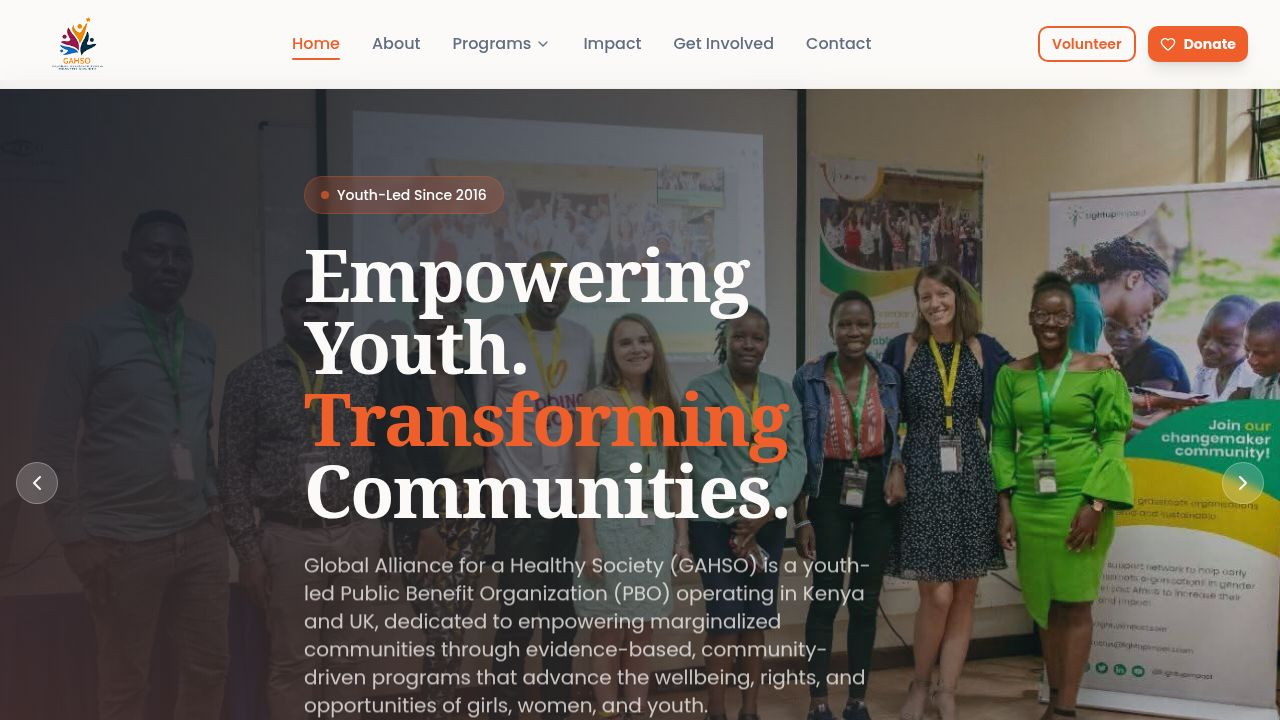
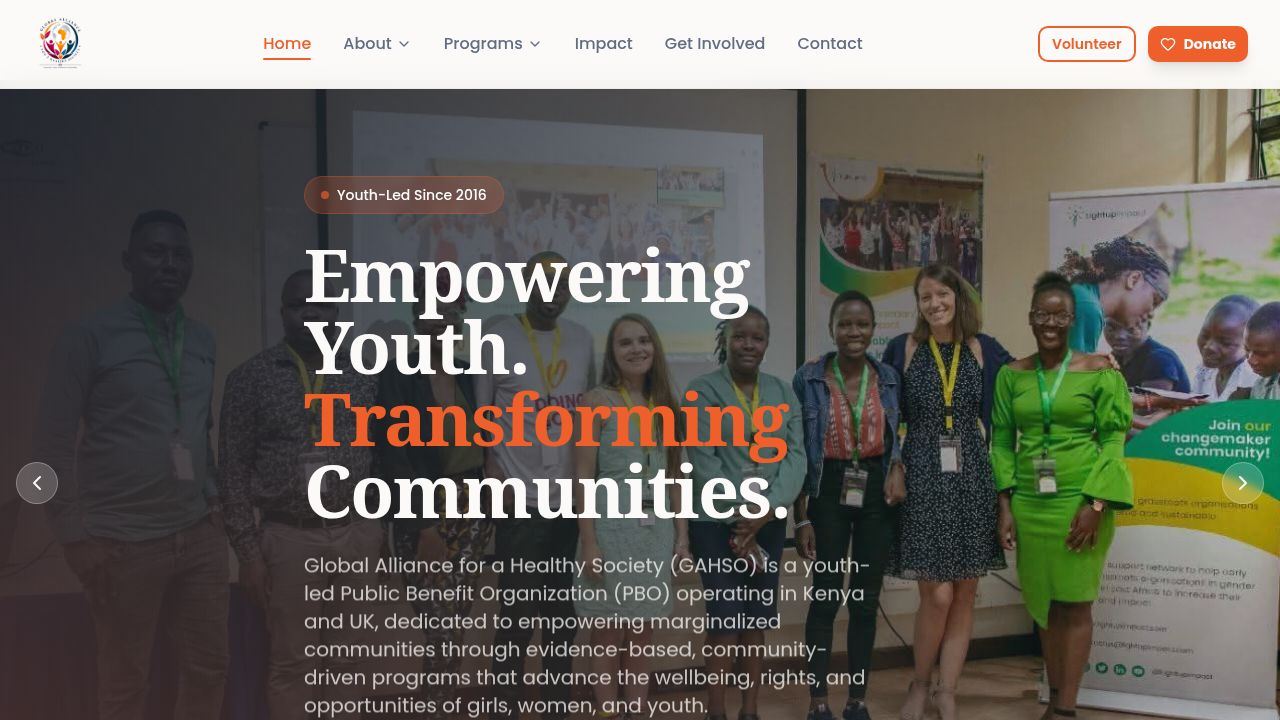
Update the Our History page with founder and co-founder details
Update the OurHistory.tsx component to include sections for the founder and co-founder, incorporating their respective images and biographical information.

Replit-Commit-Author: Agent
Replit-Commit-Session-Id: 1c38b4c8-f28b-43aa-a553-3a7df3d14071
Replit-Commit-Checkpoint-Type: full_checkpoint
Replit-Commit-Event-Id: e6fb6d12-f500-427d-9632-dfcee1dbf2d3
Replit-Commit-Screenshot-Url: https://storage.googleapis.com/screenshot-production-us-central1/33d70b60-9898-4bfa-ac70-67d3e3cc681f/1c38b4c8-f28b-43aa-a553-3a7df3d14071/3xb5e1A
Replit-Helium-Checkpoint-Created: true

diff --git a/artifacts/gahso/src/pages/OurHistory.tsx b/artifacts/gahso/src/pages/OurHistory.tsx
@@ -1,11 +1,14 @@
 import { Navbar } from "@/components/layout/Navbar";
 import { Footer } from "@/components/layout/Footer";
+import founderImg from "@/assets/founder-dafine-auma.png";
+import coFounderImg from "@/assets/cofounder-peter-gregory.jpeg";
 
 const OurHistory = () => {
   return (
     <div className="min-h-screen flex flex-col">
       <Navbar />
       <main className="flex-1 pt-24">
+
         {/* Hero */}
         <section className="bg-gradient-to-br from-primary/10 via-background to-secondary/10 py-20">
           <div className="container-wide section-padding text-center">
@@ -16,96 +19,151 @@ const OurHistory = () => {
               Our History
             </h1>
             <p className="text-lg text-muted-foreground max-w-2xl mx-auto">
-              From a small group of passionate youth in Kenya to a registered Public Benefit
+              From a bold idea rooted in community need to a registered Public Benefit
               Organization operating across Kenya and the UK — this is the story of GAHSO.
             </p>
           </div>
         </section>
 
-        {/* Timeline */}
+        {/* Founder */}
         <section className="py-20 bg-background">
           <div className="container-wide section-padding">
-            <div className="max-w-3xl mx-auto">
-              <div className="relative">
-                {/* Vertical line */}
-                <div className="absolute left-6 top-0 bottom-0 w-0.5 bg-primary/20" />
-
-                <div className="space-y-12">
-                  {[
-                    {
-                      year: "2016",
-                      title: "Founded",
-                      description:
-                        "GAHSO was founded by a group of youth activists in Nairobi, Kenya, united by a shared vision of empowering marginalized communities through evidence-based, community-driven programs.",
-                    },
-                    {
-                      year: "2018",
-                      title: "First Programs Launched",
-                      description:
-                        "We launched our first community health and youth leadership programs in informal settlements across Nairobi, reaching hundreds of young people and women with life-skills training and health education.",
-                    },
-                    {
-                      year: "2020",
-                      title: "TaTua Initiative Established",
-                      description:
-                        "The TaTua Initiative was born — a flagship livelihood program encompassing TaTua Farms, TaTua Salon, and MloFlow, creating dignified economic opportunities for marginalized youth and women.",
-                    },
-                    {
-                      year: "2021",
-                      title: "Registered as a PBO",
-                      description:
-                        "GAHSO was formally registered as a Public Benefit Organization (PBO) in Kenya, marking a new chapter of accountability, transparency, and institutional credibility.",
-                    },
-                    {
-                      year: "2022",
-                      title: "UK Expansion",
-                      description:
-                        "GAHSO expanded its footprint to the United Kingdom, establishing a presence to build international partnerships and amplify the voice of marginalized communities on the global stage.",
-                    },
-                    {
-                      year: "2023",
-                      title: "InnovHubs & Digital Inclusion",
-                      description:
-                        "We launched InnovHubs — a community innovation hub — and the Digital Inclusion (CUDI-GW) program, bridging the digital divide for youth and women in underserved communities.",
-                    },
-                    {
-                      year: "Today",
-                      title: "Growing Impact",
-                      description:
-                        "GAHSO continues to grow its programs, partnerships, and reach — staying true to its founding values of Compassion, Equity, Collaboration, and Sustainability.",
-                    },
-                  ].map((item) => (
-                    <div key={item.year} className="relative flex gap-8 pl-16">
-                      {/* Dot */}
-                      <div className="absolute left-4 top-1 w-4 h-4 rounded-full bg-primary border-2 border-background shadow-md -translate-x-1/2" />
-                      <div>
-                        <span className="inline-block px-3 py-0.5 rounded-full bg-primary/10 text-primary text-sm font-semibold mb-2">
-                          {item.year}
-                        </span>
-                        <h3 className="text-xl font-bold text-foreground mb-2">
-                          {item.title}
-                        </h3>
-                        <p className="text-muted-foreground leading-relaxed">
-                          {item.description}
-                        </p>
-                      </div>
-                    </div>
-                  ))}
+            <div className="grid md:grid-cols-2 gap-12 items-center max-w-5xl mx-auto">
+              {/* Image */}
+              <div className="flex justify-center">
+                <div className="relative">
+                  <div className="absolute -inset-3 rounded-3xl bg-primary/10" />
+                  <img
+                    src={founderImg}
+                    alt="Dafine Auma — Founder, GAHSO"
+                    className="relative w-72 md:w-80 rounded-2xl object-cover shadow-card"
+                  />
+                </div>
+              </div>
+              {/* Copy */}
+              <div>
+                <span className="inline-block px-3 py-1 rounded-full bg-primary/10 text-primary text-sm font-semibold mb-3">
+                  Our Founder
+                </span>
+                <h2 className="text-3xl md:text-4xl font-bold text-foreground mb-2">
+                  Dafine Auma
+                </h2>
+                <p className="text-primary font-medium mb-6">Founder, GAHSO</p>
+                <div className="space-y-4 text-muted-foreground leading-relaxed">
+                  <p>
+                    Dafine Auma, founder of GAHSO, is a youth-driven social innovator advancing
+                    community health, empowerment, and sustainable development across underserved
+                    communities. Her passion for humanitarian work was shaped by early exposure to
+                    the daily realities facing young people, vulnerable households, and the girl
+                    child — particularly barriers to education, access to quality health services,
+                    and protection from social and economic vulnerability.
+                  </p>
+                  <p>
+                    Motivated by the urgent need for stronger youth-led action in public health and
+                    community transformation, she founded GAHSO to mobilize young leaders as change
+                    agents, strengthen community resilience, and design inclusive, locally driven
+                    solutions that respond to real community needs. A central focus of her leadership
+                    is the empowerment of the girl child through health education, protection, and
+                    pathways that support dignity, opportunity, and long-term well-being.
+                  </p>
+                  <p>
+                    Under her leadership, GAHSO is emerging as a dynamic grassroots platform working
+                    at the intersection of health, youth empowerment, and community resilience —
+                    building strategic partnerships, strengthening local systems, and delivering
+                    impact-driven programs that are rooted in lived realities and designed for
+                    scalable change.
+                  </p>
                 </div>
               </div>
             </div>
           </div>
         </section>
 
-        {/* Values reminder */}
+        {/* Co-Founder */}
+        <section className="py-20 bg-muted/30">
+          <div className="container-wide section-padding">
+            <div className="grid md:grid-cols-2 gap-12 items-center max-w-5xl mx-auto">
+              {/* Copy — left on desktop */}
+              <div className="order-2 md:order-1">
+                <span className="inline-block px-3 py-1 rounded-full bg-primary/10 text-primary text-sm font-semibold mb-3">
+                  Co-Founder
+                </span>
+                <h2 className="text-3xl md:text-4xl font-bold text-foreground mb-2">
+                  Peter Gregory Odhiambo
+                </h2>
+                <p className="text-primary font-medium mb-6">Co-Founder, GAHSO</p>
+                <p className="text-muted-foreground leading-relaxed">
+                  Peter Gregory Odhiambo co-founded GAHSO with a deep commitment to building
+                  systems that serve the most vulnerable. His strategic vision and experience in
+                  organizational development have been central to shaping GAHSO's growth from a
+                  community initiative into a credible, impact-driven Public Benefit Organization
+                  with a presence in Kenya and the United Kingdom.
+                </p>
+              </div>
+              {/* Image — right on desktop */}
+              <div className="flex justify-center order-1 md:order-2">
+                <div className="relative">
+                  <div className="absolute -inset-3 rounded-3xl bg-primary/10" />
+                  <img
+                    src={coFounderImg}
+                    alt="Peter Gregory Odhiambo — Co-Founder, GAHSO"
+                    className="relative w-72 md:w-80 rounded-2xl object-cover shadow-card"
+                  />
+                </div>
+              </div>
+            </div>
+          </div>
+        </section>
+
+        {/* Looking Ahead */}
+        <section className="py-20 bg-background">
+          <div className="container-wide section-padding max-w-4xl mx-auto">
+            <div className="text-center mb-12">
+              <span className="inline-block px-4 py-1.5 rounded-full bg-primary/10 text-primary text-sm font-medium mb-4">
+                The Road Ahead
+              </span>
+              <h2 className="text-3xl md:text-4xl font-bold text-foreground">
+                Looking Ahead
+              </h2>
+            </div>
+            <div className="bg-gradient-to-br from-primary/5 to-secondary/5 rounded-3xl p-8 md:p-12 space-y-6 text-muted-foreground leading-relaxed text-base md:text-lg">
+              <p>
+                We are operating in a context shaped by persistent public health challenges,
+                recurring humanitarian crises, climate shocks, and increasing displacement across
+                many of the communities where we work in Africa. These realities continue to place
+                significant pressure on already vulnerable populations, particularly young people
+                and women who remain disproportionately affected by poor health outcomes,
+                unemployment, and limited access to essential services.
+              </p>
+              <p>
+                GAHSO's work is guided by a clear focus on its target population — vulnerable and
+                underserved communities, especially youth, adolescent girls and boys, displaced
+                families, and marginalized households living in fragile and resource-constrained
+                settings. These groups continue to face intersecting challenges that require
+                integrated responses linking public health, awareness, protection, and sustainable
+                livelihood support.
+              </p>
+              <p>
+                At GAHSO, we remain committed to delivering community-driven and youth-led solutions
+                that respond directly to these realities. We continue to strengthen partnerships,
+                deepen local engagement, and invest in shared learning to ensure our interventions
+                are relevant, inclusive, and impactful.
+              </p>
+              <p>
+                Looking ahead, our focus remains on strengthening community health systems,
+                expanding access to health awareness and preventive care, and empowering young
+                people to take active leadership in shaping healthier and more resilient communities.
+              </p>
+            </div>
+          </div>
+        </section>
+
+        {/* Values */}
         <section className="py-16 bg-primary/5">
           <div className="container-wide section-padding text-center">
-            <h2 className="text-2xl font-bold text-foreground mb-4">
-              Rooted in Our Values
-            </h2>
+            <h2 className="text-2xl font-bold text-foreground mb-4">Rooted in Our Values</h2>
             <p className="text-muted-foreground max-w-xl mx-auto mb-8">
-              Every milestone in our history has been guided by the four values at the
-              heart of GAHSO.
+              Every milestone in our history has been guided by the four values at the heart of GAHSO.
             </p>
             <div className="grid grid-cols-2 md:grid-cols-4 gap-6 max-w-2xl mx-auto">
               {["Compassion", "Equity", "Collaboration", "Sustainability"].map((value) => (
@@ -119,6 +177,7 @@ const OurHistory = () => {
             </div>
           </div>
         </section>
+
       </main>
       <Footer />
     </div>